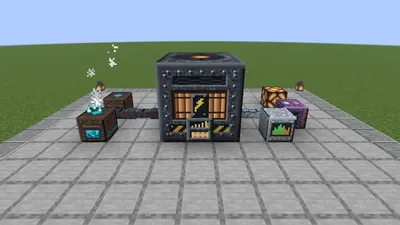
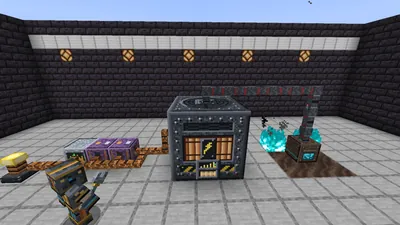
산업크래프트 소개: 옛 그림 7장(보스 · 2페이즈 · 손에 든 모델 · 크라켄 2페이즈 · 바다 몹 · 잠수복 · 대형 발전기)을 새 촬영 장면으로 다시 찍음 (베타 9 화면), 2페이즈 · 바다 몹 설명을 그림에 맞춤

diff --git a/p/sanupcraft/page.js b/p/sanupcraft/page.js
@@ -16,13 +16,13 @@ const SHOTS = [
   ['warden', '네더에서만 깨어나는 용광로 파수꾼.'],
   ['outpost', '네더 전초기지. 용암 옆 지열 분출구의 증기로 드릴 굴착기와 심장 제련로를 돌린다.'],
   ['colossus', '마지막 보스 공허 거상. 공허 수정 넷이 지키는 동안은 상처 하나 나지 않는다.'],
-  ['phase2', '보스 2페이즈. 체력이 절반이 되면 갑옷이 갈라지며 새 패턴이 붙는다: 가운데 파수꾼의 용암 기둥, 왼쪽 수호자의 녹 폭풍.'],
+  ['phase2', '보스 2페이즈. 체력이 절반이 되면 갑옷이 갈라지며 새 패턴이 붙는다: 왼쪽 수호자의 녹 웅덩이, 오른쪽 공허 거상의 균열.'],
   ['mobs', '새 몹 셋: 녹슨 자동인형 · 잿불 정령 · 공허 그림자. 5%는 체력 두 배에 능력이 붙은 정예로 나온다.'],
   ['special-gear', '특수 장비: 머리 조명이 달린 광부 갑옷, 제트팩 모듈을 끼우는 증기 파워 아머, 물속에서도 숨 쉬고 빠르게 헤엄치는 잠수복.'],
   ['held', '드릴 · 전기톱 · 리벳총 · 화염 방사기 · 증기 해머 · 렌치는 손에 들면 입체 모델로 보인다.'],
   ['kraken', '네 번째 보스 심해 기관 크라켄. 촉수 끝 압력 밸브 넷을 잠가야 본체에 제대로 상처가 난다.'],
   ['kraken-p2', '크라켄 2페이즈. 주변 물을 끓여 물속에서도 데는 장판을 깐다.'],
-  ['ocean-mobs', '깊은 바다의 증기 해파리. 거리를 두고 과열 침을 쏜다.'],
+  ['ocean-mobs', '깊은 바다의 증기 해파리와 녹슨 잠수 드론. 해파리는 거리를 두고 과열 침을 쏘고, 바닥에는 망간 단괴가 깔려 있다.'],
   ['diving-suit', '잠수복 한 벌. 물속에서도 땅에서처럼 캐고 빠르게 헤엄친다.'],
   ['electric', '전기 시대: 테슬라 코일 · 축전지 · 전기 충전대 · 증기 발전기를 전선으로 잇고, 전동 멀티툴을 든다.'],
   ['big-generator', '대형 발전기. 영혼 화로의 고압 증기를 받아 전력으로 바꾸는 3x3x3 다중 블록.'],
